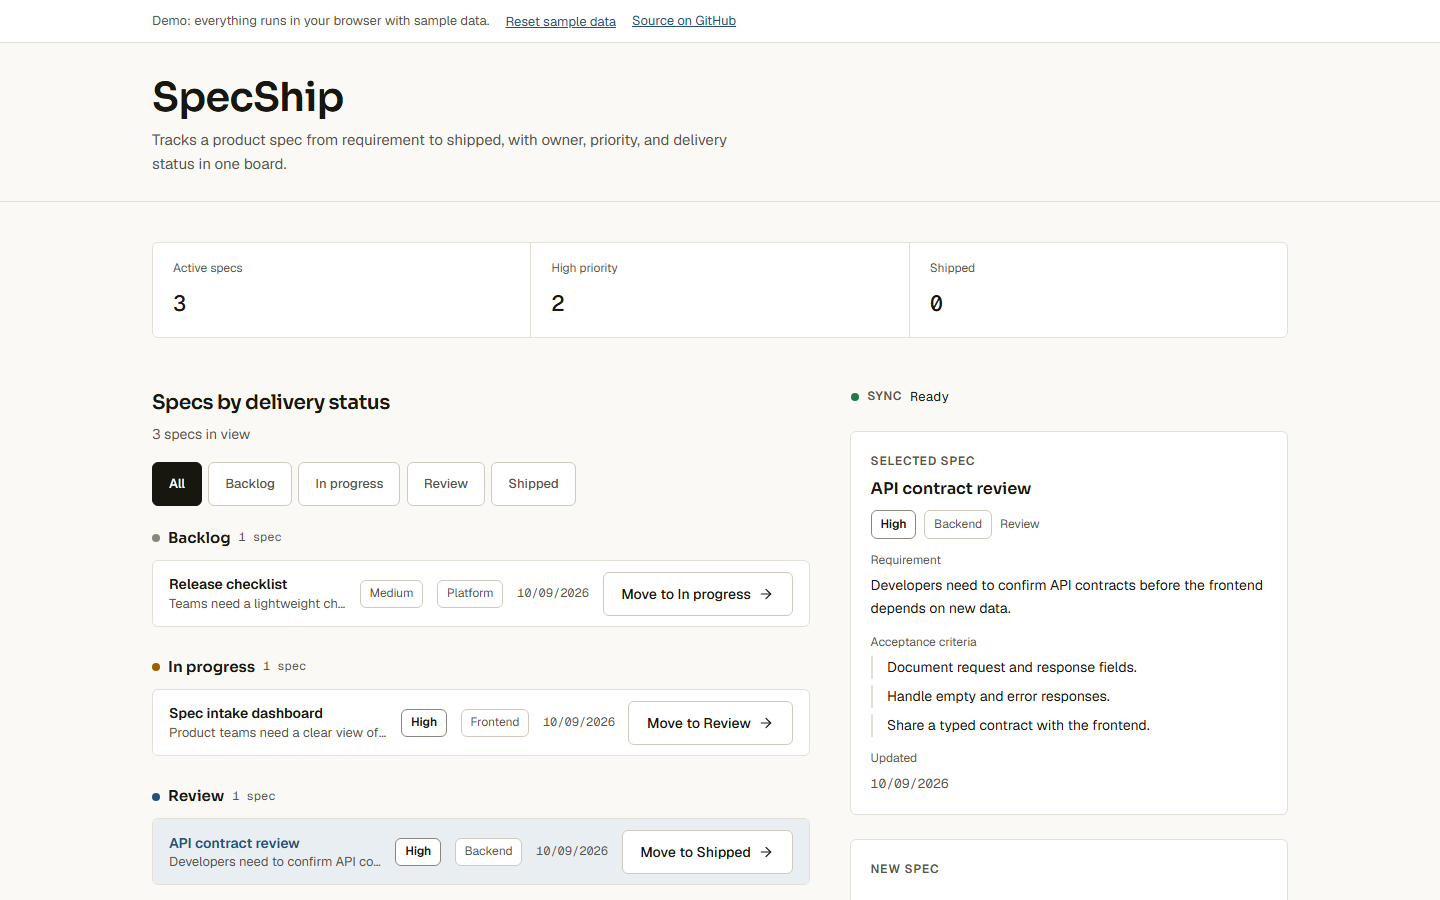
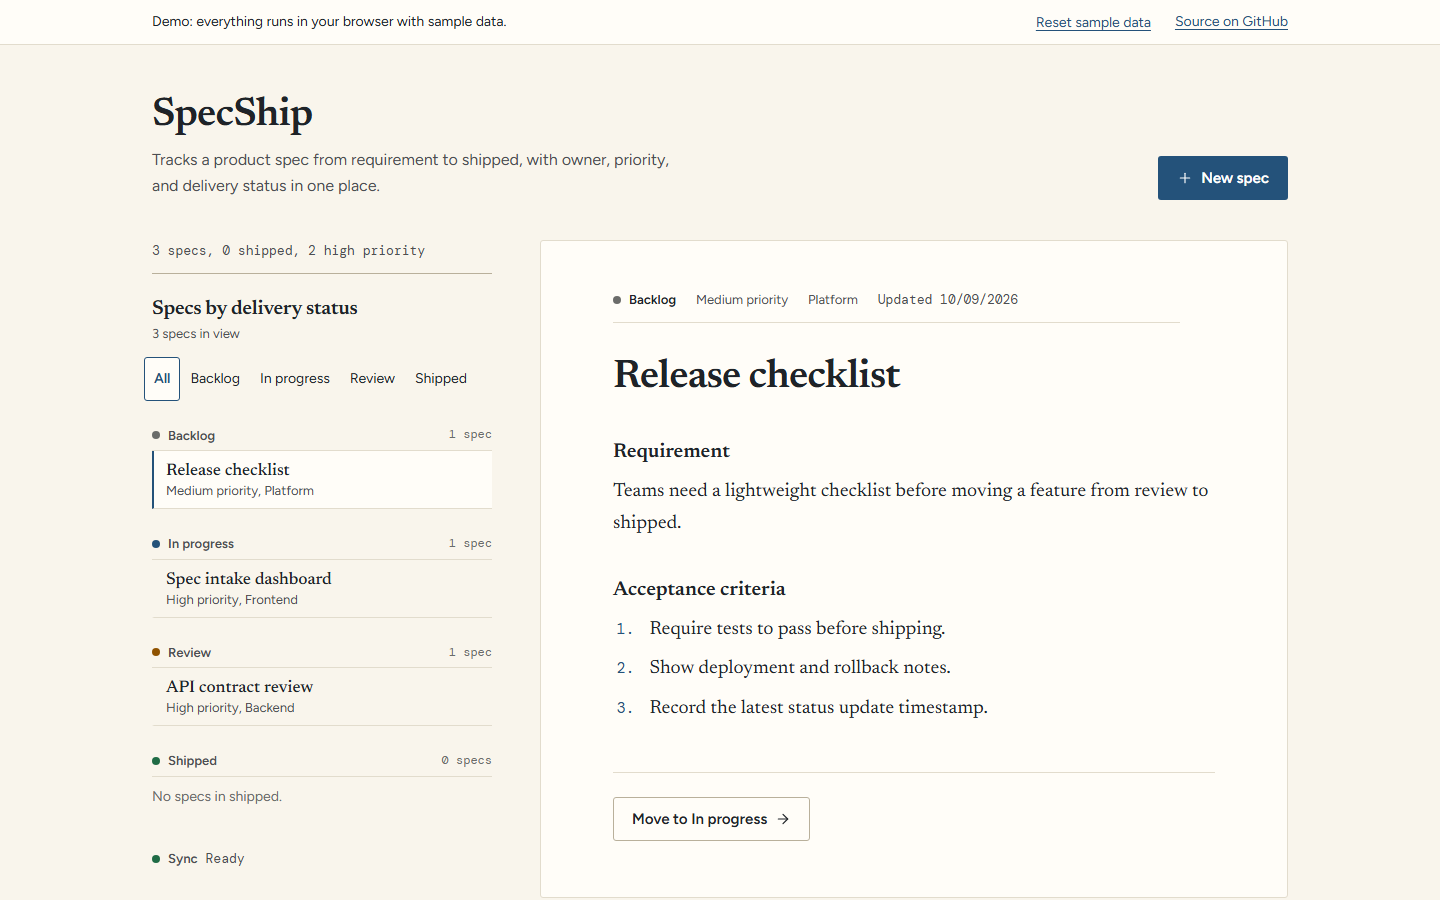
Update the dialog backdrop, README, demo guide, changelog and screenshots for the reader layout

diff --git a/src/components/SpecForm.tsx b/src/components/SpecForm.tsx
@@ -53,14 +53,8 @@ export function SpecForm({ form, formError, onChange, onClose, onSubmit }: SpecF
 
   return (
     <div className="dialog-backdrop">
-      {/* The backdrop click closes the dialog; keyboard users have Escape and the Close button. */}
-      <button
-        aria-hidden="true"
-        className="dialog-dismiss"
-        onClick={onClose}
-        tabIndex={-1}
-        type="button"
-      />
+      {/* Clicking the backdrop closes the dialog; keyboard users have Escape and the Close button. */}
+      <div aria-hidden="true" className="dialog-dismiss" onClick={onClose} />
       <div
         aria-labelledby="new-spec-heading"
         aria-modal="true"

diff --git a/src/App.css b/src/App.css
@@ -155,13 +155,14 @@
 .filter-row {
   display: flex;
   flex-wrap: wrap;
-  gap: 4px 4px;
+  gap: 4px 0;
   margin-top: 12px;
+  margin-left: -8px;
 }
 
 .filter-btn {
   min-height: 44px;
-  padding: 0 12px;
+  padding: 0 9px;
   background: transparent;
   border: 1px solid transparent;
   border-radius: var(--radius);
@@ -366,14 +367,15 @@
 }
 
 .doc-prose,
-.criteria-list {
+ol.criteria-list {
   margin-top: 12px;
   font-family: var(--font-heading);
   font-size: 19px;
   line-height: 1.65;
 }
 
-.criteria-list {
+ol.criteria-list {
+  list-style: decimal;
   padding-left: 1.6em;
 }
 

diff --git a/README.md b/README.md
@@ -15,22 +15,21 @@ load, and a "Reset sample data" control if you want to start over.
 
 ## Screenshot
 
-![SpecShip board with a selected spec's detail panel open](docs/screenshots/specship-desktop.png)
+![SpecShip spec reader with the spec list on the left and the selected spec as a document](docs/screenshots/specship-desktop.png)
 
-More in [docs/screenshots](docs/screenshots), including the mobile layout.
+More in [docs/screenshots](docs/screenshots), including the New spec dialog and the mobile layout.
 
 ## Features
 
-- Specs grouped by delivery status (`Backlog`, `In progress`, `Review`,
-  `Shipped`) in a dense list, each row showing owner and priority as small
-  badges, filterable with a compact segmented control.
-- Select a spec to see its full requirement and acceptance criteria in the
-  side column, next to the create-spec form.
-- Move a spec to its next delivery status with one click.
-- Create a spec from a form; the API validates the input and rejects
-  incomplete or too-short fields with a specific message.
-- One stats strip with live counts of active, high-priority, and shipped
-  specs, plus a one-line sync indicator for the connection to the API.
+- A spec reader: the left column lists specs grouped by delivery status
+  (`Backlog`, `In progress`, `Review`, `Shipped`) and can be filtered by
+  status; the right side shows the selected spec as a document with the
+  requirement as prose and the acceptance criteria as a numbered list.
+- Move the open spec to its next delivery status with one click.
+- Create a spec from the New spec dialog; the API validates the input and
+  rejects incomplete or too-short fields with a specific message.
+- A one-line tally of specs, shipped specs, and high-priority specs, plus a
+  sync indicator for the connection to the API.
 - Works two ways from the same code: against the real Express API, or fully
   in the browser in demo mode (see [docs/architecture.md](docs/architecture.md#demo-mode)).
 

diff --git a/CHANGELOG.md b/CHANGELOG.md
@@ -7,6 +7,10 @@ The format is based on [Keep a Changelog](https://keepachangelog.com/en/1.0.0/).
 
 ### Changed
 
+- Gave SpecShip its own look as a spec reader: a cream page with dusk blue accents, Newsreader for headings and spec text, Figtree for labels and buttons, and DM Mono for dates and counts.
+- Replaced the stats strip and spec table with a list of specs grouped by status on the left and the selected spec shown as a document on the right, with the requirement as prose and the acceptance criteria as a numbered list.
+- Moved spec creation into a New spec dialog that keeps keyboard focus inside while open and returns it when closed.
+- Shrank the stats to one line of text and reduced corners to 3px with hairline borders.
 - Redesigned the interface around the shared product design tokens: Sora, Geist, and Geist Mono replace Inter, the header wordmark drops from a 108px hero to 40px, and every box-shadow except the focus ring is gone.
 - Replaced the repeated stat boxes and card grids with one stats strip and a spec list grouped by delivery status, with priority and owner as small badges instead of cards.
 - Added a selected-spec detail panel and moved the create-spec form into a single side column, next to the spec list.

diff --git a/docs/demo.md b/docs/demo.md
@@ -20,15 +20,15 @@ runs the demo mode described below: no backend, sample data in your browser.
      criteria, and latest update visible.
 
 3. **Move a spec forward**
-   - Click a spec's status button to move it to the next delivery state.
+   - Select a spec, then use the Move button under the document to send it to the next delivery state.
    - The change is saved through `PATCH /api/specs/:id/status` (or, in demo
      mode, the in-browser store). If the request reaches the API and it
-     rejects the change, the card keeps its current status and shows why.
+     rejects the change, the spec keeps its current status and shows why.
      If the API cannot be reached at all, the UI applies the change locally
      and marks the API state as offline until it recovers.
 
 4. **Create a spec**
-   - Fill in the new feature form with a title, owner, priority,
+   - Open New spec and fill in the dialog with a title, owner, priority,
      requirement, and acceptance criterion.
    - Input is validated with the same Zod schema on the server and in demo
      mode, so the two behave the same way for bad input.
